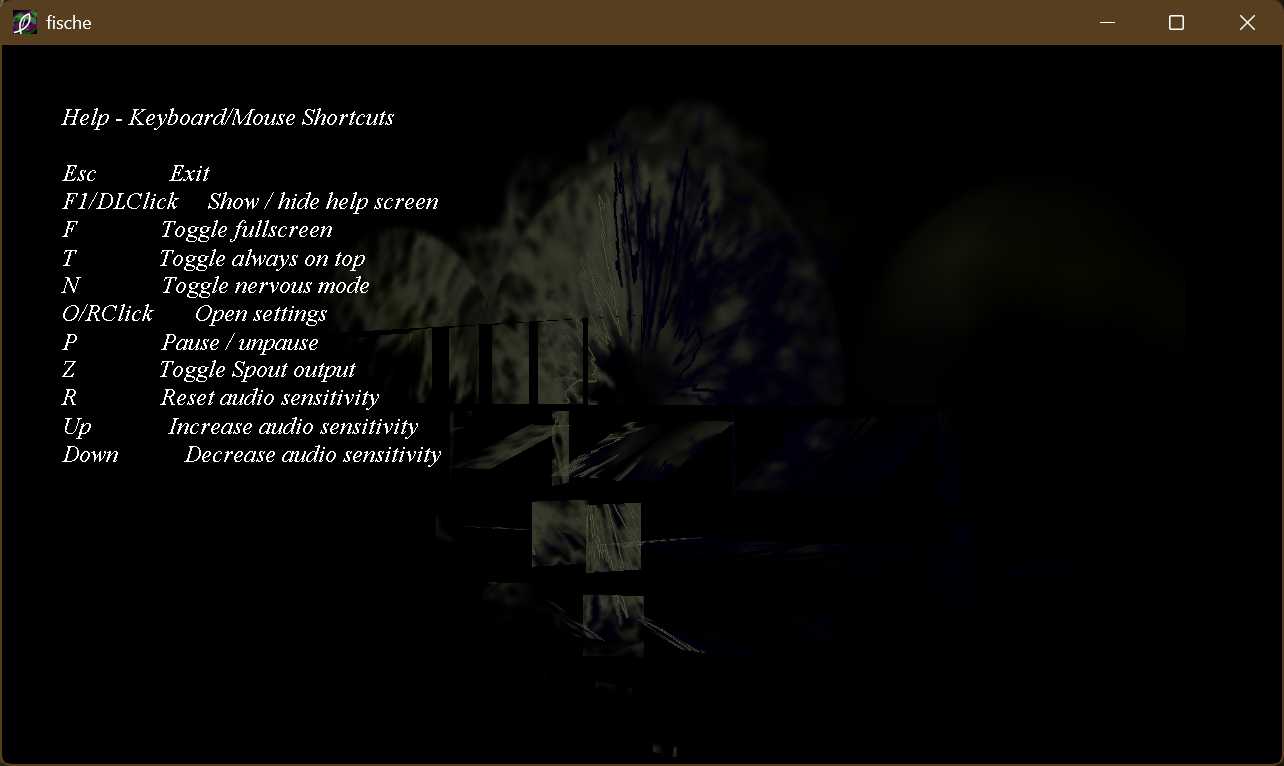
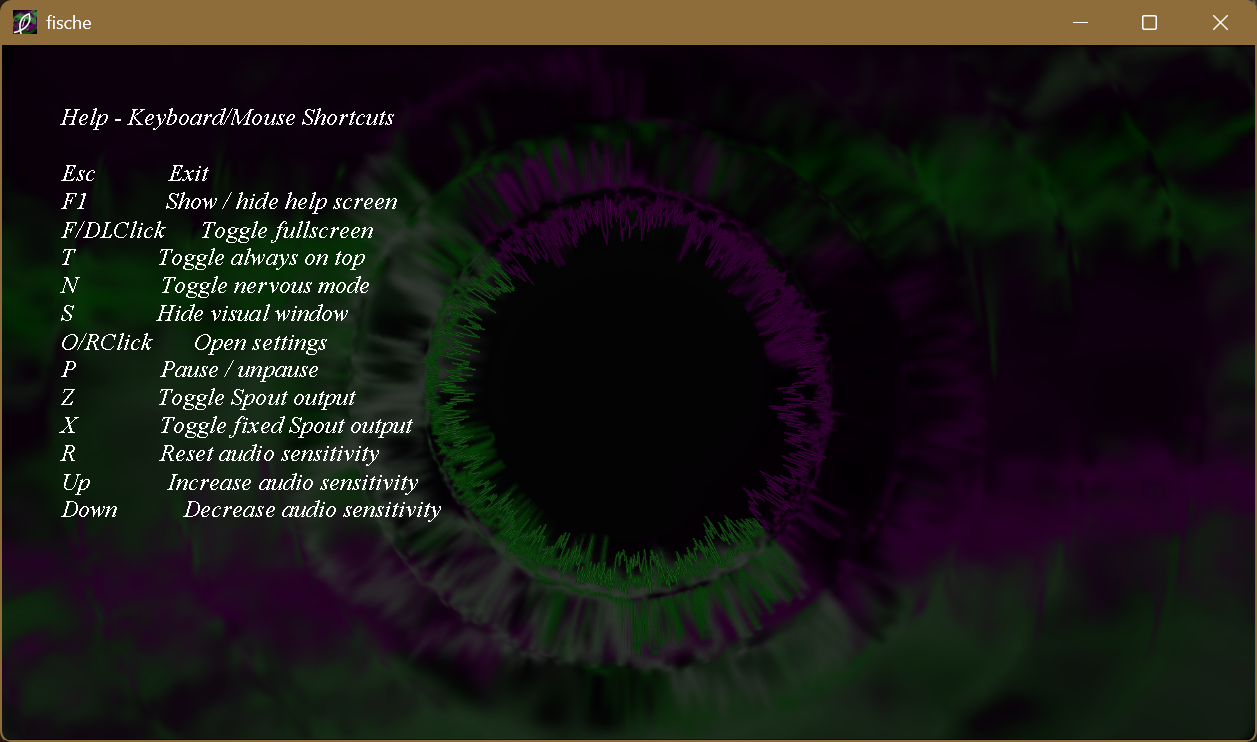
Implemented Window-independent Spout output

diff --git a/src/settings_dialog.cpp b/src/settings_dialog.cpp
@@ -11,7 +11,7 @@
 namespace
 {
 constexpr int kDialogWidth = 495;
-constexpr int kDialogHeight = 473;
+constexpr int kDialogHeight = 501;
 constexpr int kMargin = 10;
 constexpr int kLabelWidth = 130;
 constexpr int kControlLeft = 155;
@@ -35,6 +35,9 @@ constexpr int kWidthEdit  = 1014;
 constexpr int kHeightEdit = 1015;
 constexpr int kFpsReset = 1016;
 constexpr int kHideWindowCheck = 1017;
+constexpr int kFixedSpoutCheck   = 1018;
+constexpr int kFixedSpoutWidthEdit  = 1019;
+constexpr int kFixedSpoutHeightEdit = 1020;
 
 struct DialogState
 {
@@ -153,12 +156,17 @@ void apply_settings_from_controls(HWND hwnd, DialogState* state)
   state->working.windowWidth = std::clamp(_wtoi(buf), 320, 7680);
   GetWindowTextW(GetDlgItem(hwnd, kHeightEdit), buf, 32);
   state->working.windowHeight = std::clamp(_wtoi(buf), 240, 4320);
+  GetWindowTextW(GetDlgItem(hwnd, kFixedSpoutWidthEdit),  buf, 32);
+  state->working.fixedSpoutWidth  = std::clamp(_wtoi(buf), 320, 7680);
+  GetWindowTextW(GetDlgItem(hwnd, kFixedSpoutHeightEdit), buf, 32);
+  state->working.fixedSpoutHeight = std::clamp(_wtoi(buf), 240, 4320);
 
   HWND fps = GetDlgItem(hwnd, kFpsSlider);
   state->working.fpsLimit = std::clamp(static_cast<int>(SendMessageW(fps, TBM_GETPOS, 0, 0)), 0, 240);
   state->working.nervousMode = SendMessageW(GetDlgItem(hwnd, kNervousCheck), BM_GETCHECK, 0, 0) == BST_CHECKED;
   state->working.useFilePersistence = SendMessageW(GetDlgItem(hwnd, kPersistenceCheck), BM_GETCHECK, 0, 0) == BST_CHECKED;
   state->working.spoutEnabled = SendMessageW(GetDlgItem(hwnd, kSpoutCheck), BM_GETCHECK, 0, 0) == BST_CHECKED;
+  state->working.fixedSpoutEnabled = SendMessageW(GetDlgItem(hwnd, kFixedSpoutCheck), BM_GETCHECK, 0, 0) == BST_CHECKED;
   state->working.vsyncMode = std::clamp(static_cast<int>(SendMessageW(GetDlgItem(hwnd, kVSyncCombo), CB_GETCURSEL, 0, 0)), 0, 2);
   state->working.alwaysOnTop = SendMessageW(GetDlgItem(hwnd, kAlwaysOnTopCheck), BM_GETCHECK, 0, 0) == BST_CHECKED;
   state->working.hideWindow  = SendMessageW(GetDlgItem(hwnd, kHideWindowCheck),  BM_GETCHECK, 0, 0) == BST_CHECKED;
@@ -232,6 +240,26 @@ LRESULT CALLBACK dialog_proc(HWND hwnd, UINT message, WPARAM wParam, LPARAM lPar
 
       SetWindowTextW(widthEdit,  std::to_wstring(state->working.windowWidth).c_str());
       SetWindowTextW(heightEdit, std::to_wstring(state->working.windowHeight).c_str());
+      y += kRowHeight + 4;
+
+      create_control(hwnd, L"STATIC", L"Spout resol.", 0, kMargin, y + 4, kLabelWidth, 22, 0);
+      HWND fixedW = create_control(hwnd, L"EDIT", L"", ES_NUMBER | WS_BORDER,
+                                    kControlLeft, y, 70, 22, kFixedSpoutWidthEdit);
+      create_control(hwnd, L"STATIC", L"\u00D7", 0, kControlLeft + 76, y + 4, 12, 22, 0);
+      HWND fixedH = create_control(hwnd, L"EDIT", L"", ES_NUMBER | WS_BORDER,
+                                    kControlLeft + 94, y, 70, 22, kFixedSpoutHeightEdit);
+      HWND fixedBtn = create_control(hwnd, L"BUTTON", L"Fixed", BS_AUTOCHECKBOX,
+                                      kControlLeft + 175, y + 2, 70, 20, kFixedSpoutCheck);
+
+      SetWindowTextW(fixedW, std::to_wstring(state->working.fixedSpoutWidth).c_str());
+      SetWindowTextW(fixedH, std::to_wstring(state->working.fixedSpoutHeight).c_str());
+      SendMessageW(fixedBtn, BM_SETCHECK, state->working.fixedSpoutEnabled ? BST_CHECKED : BST_UNCHECKED, 0);
+
+      // Enable/disable edit boxes based on current state
+      bool fixedOn = state->working.fixedSpoutEnabled;
+      EnableWindow(fixedW, fixedOn);
+      EnableWindow(fixedH, fixedOn);
+
       y += kRowHeight + 4;
 
       create_control(hwnd, L"STATIC", L"Speed", 0, kMargin, y + 4, kLabelWidth, 22, 0);
@@ -308,6 +336,14 @@ LRESULT CALLBACK dialog_proc(HWND hwnd, UINT message, WPARAM wParam, LPARAM lPar
           HWND slider = GetDlgItem(hwnd, kFpsSlider);
           SendMessageW(slider, TBM_SETPOS, TRUE, 60);
           update_fps_label(state, slider);
+          return 0;
+        }
+        case kFixedSpoutCheck:
+        {
+          bool checked = SendMessageW(GetDlgItem(hwnd, kFixedSpoutCheck),
+                                      BM_GETCHECK, 0, 0) == BST_CHECKED;
+          EnableWindow(GetDlgItem(hwnd, kFixedSpoutWidthEdit),  checked);
+          EnableWindow(GetDlgItem(hwnd, kFixedSpoutHeightEdit), checked);
           return 0;
         }
         case IDCANCEL:

diff --git a/src/fishe_xbmc.cpp b/src/fishe_xbmc.cpp
@@ -179,6 +179,8 @@ void CFishBMC::Stop()
   if (!m_startOK)
     return;
 
+  DestroyFixedFbo();
+
   glDeleteTextures(1, &m_texture);
 
 
@@ -297,7 +299,10 @@ void CFishBMC::Render()
   finish_render();
   // Make sure all drawing commands are complete before Spout copies the frame.
   glFinish();
-  SendFrame(Sender);
+  if (m_useFixedSpout && m_fixedFboReady)
+    SendFixedFrame(Sender);
+  else
+    SendFrame(Sender);
 
 }
 
@@ -500,6 +505,99 @@ std::filesystem::path CFishBMC::vector_cache_path() const
   return dir /
          ("fische-vectors-" + std::to_string(m_fische->width) + "x" +
           std::to_string(m_fische->height) + ".bin");
+}
+
+void CFishBMC::SendFixedFrame(SpoutSender* sender)
+{
+  if (!sender || !m_fixedFboReady || !m_startOK)
+    return;
+
+  // Save current GL state
+  GLint prevFbo = 0;
+  glGetIntegerv(GL_FRAMEBUFFER_BINDING, &prevFbo);
+  GLint prevViewport[4];
+  glGetIntegerv(GL_VIEWPORT, prevViewport);
+
+  // Render into fixed FBO
+  glBindFramebuffer(GL_FRAMEBUFFER, m_fixedFbo);
+  glViewport(0, 0, m_fixedWidth, m_fixedHeight);
+  glClearColor(0.0f, 0.0f, 0.0f, 1.0f);
+  glClear(GL_COLOR_BUFFER_BIT);
+
+  start_render();
+
+  int n_Y = 8;
+  int n_X = std::max(1, static_cast<int>(m_aspect * 8 + 0.5));
+  double quad_width  = 4.0 / n_X;
+  double quad_height = 4.0 / n_Y;
+  double tex_width   = m_texright - m_texleft;
+
+  for (double X = 0; X < n_X; X += 1)
+  {
+    for (double Y = 0; Y < n_Y; Y += 1)
+    {
+      double center_x  = -2 + (X + 0.5) * 4 / n_X;
+      double center_y  = -2 + (Y + 0.5) * 4 / n_Y;
+      double tex_left  = m_texleft + tex_width * X / n_X;
+      double tex_right = m_texleft + tex_width * (X + 1) / n_X;
+      double tex_top   = Y / n_Y;
+      double tex_bottom = (Y + 1) / n_Y;
+      double angle = (m_angle - m_lastangle) * 4 - (X + Y * n_X) / (n_X * n_Y) * 360;
+      angle = std::clamp(angle, 0.0, 360.0);
+      int quad_count = static_cast<int>(X) * n_Y + static_cast<int>(Y);
+      if (quad_count < static_cast<int>(m_axis.size()))
+        textured_quad(center_x, center_y, angle, m_axis[quad_count],
+                      quad_width, quad_height,
+                      tex_left, tex_right, tex_top, tex_bottom);
+    }
+  }
+
+  finish_render();
+  glFinish();
+
+  // Send fixed FBO to Spout
+  sender->SendFbo(m_fixedFbo, static_cast<unsigned>(m_fixedWidth),
+                              static_cast<unsigned>(m_fixedHeight), true);
+
+  // Restore previous GL state
+  glBindFramebuffer(GL_FRAMEBUFFER, prevFbo);
+  glViewport(prevViewport[0], prevViewport[1], prevViewport[2], prevViewport[3]);
+}
+
+void CFishBMC::SetupFixedFbo(int w, int h)
+{
+  DestroyFixedFbo();
+
+  m_fixedWidth  = w;
+  m_fixedHeight = h;
+
+  glGenFramebuffers(1, &m_fixedFbo);
+  glBindFramebuffer(GL_FRAMEBUFFER, m_fixedFbo);
+
+  glGenTextures(1, &m_fixedTexture);
+  glBindTexture(GL_TEXTURE_2D, m_fixedTexture);
+  glTexImage2D(GL_TEXTURE_2D, 0, GL_RGBA, w, h, 0, GL_RGBA, GL_UNSIGNED_BYTE, nullptr);
+  glTexParameteri(GL_TEXTURE_2D, GL_TEXTURE_MIN_FILTER, GL_LINEAR);
+  glTexParameteri(GL_TEXTURE_2D, GL_TEXTURE_MAG_FILTER, GL_LINEAR);
+  glFramebufferTexture2D(GL_FRAMEBUFFER, GL_COLOR_ATTACHMENT0, GL_TEXTURE_2D, m_fixedTexture, 0);
+
+  glGenRenderbuffers(1, &m_fixedRbo);
+  glBindRenderbuffer(GL_RENDERBUFFER, m_fixedRbo);
+  glRenderbufferStorage(GL_RENDERBUFFER, GL_DEPTH24_STENCIL8, w, h);
+  glFramebufferRenderbuffer(GL_FRAMEBUFFER, GL_DEPTH_STENCIL_ATTACHMENT, GL_RENDERBUFFER, m_fixedRbo);
+
+  glBindFramebuffer(GL_FRAMEBUFFER, 0);
+  glBindTexture(GL_TEXTURE_2D, 0);
+
+  m_fixedFboReady = (glCheckFramebufferStatus(GL_FRAMEBUFFER) != GL_FRAMEBUFFER_INCOMPLETE_ATTACHMENT);
+}
+
+void CFishBMC::DestroyFixedFbo()
+{
+  if (m_fixedFbo)     { glDeleteFramebuffers(1,  &m_fixedFbo);     m_fixedFbo     = 0; }
+  if (m_fixedTexture) { glDeleteTextures(1,      &m_fixedTexture); m_fixedTexture = 0; }
+  if (m_fixedRbo)     { glDeleteRenderbuffers(1, &m_fixedRbo);     m_fixedRbo     = 0; }
+  m_fixedFboReady = false;
 }
 
 void CFishBMC::write_vectors(void* handler, const void* data, size_t bytes)

diff --git a/src/main.cpp b/src/main.cpp
@@ -38,6 +38,7 @@ std::chrono::steady_clock::time_point g_osdUntil;
 std::chrono::steady_clock::time_point g_cursorUntil;
 bool g_cursorVisible = true;
 bool g_spoutReady = false;
+bool g_fixedSpoutEnabled = false;
 bool g_paused = false;
 bool g_openSettings = false;
 bool g_windowHidden = false;
@@ -144,6 +145,17 @@ void show_osd(const std::string& message, int milliseconds = 3000)
   g_osdTextH = sz.cy;
 }
 
+void apply_fixed_spout()
+{
+  if (!g_visualizer) return;
+  if (g_settings.fixedSpoutEnabled && g_settings.spoutEnabled)
+    g_visualizer->SetupFixedFbo(g_settings.fixedSpoutWidth, g_settings.fixedSpoutHeight);
+  else
+    g_visualizer->DestroyFixedFbo();
+
+    g_visualizer->m_useFixedSpout = g_settings.fixedSpoutEnabled && g_settings.spoutEnabled;
+}
+
 void update_spout_state()
 {
   if (g_settings.spoutEnabled)
@@ -166,6 +178,8 @@ void update_spout_state()
       g_spoutReady = false;
     }
   }
+
+  apply_fixed_spout();
 }
 
 void recreate_visualizer()
@@ -216,6 +230,7 @@ void recreate_visualizer()
     g_audioCapture.SetSensitivity(g_settings.audioSensitivity);
   }
   update_spout_state();
+  apply_fixed_spout();
   g_lastFramebufferWidth = framebufferWidth;
   g_lastFramebufferHeight = framebufferHeight;
 }
@@ -258,6 +273,7 @@ void apply_settings(const AppSettings& settings)
     hide_to_tray();
   else if (!g_settings.hideWindow && g_windowHidden)
     show_from_tray();
+  apply_fixed_spout();
   recreate_visualizer();
 }
 
@@ -316,14 +332,15 @@ void draw_help_screen(int fw, int fh)
     "Help - Keyboard/Mouse Shortcuts",
     "",
     "Esc            Exit",
-    "F1     Show / hide help screen",
-    "F/DLClick              Toggle fullscreen",
+    "F1             Show / hide help screen",
+    "F/DLClick      Toggle fullscreen",
     "T              Toggle always on top",
     "N              Toggle nervous mode",
     "S              Hide visual window",
     "O/RClick       Open settings",
     "P              Pause / unpause",
     "Z              Toggle Spout output",
+    "X              Toggle fixed Spout output",
     "R              Reset audio sensitivity",
     "Up             Increase audio sensitivity",
     "Down           Decrease audio sensitivity",
@@ -632,6 +649,14 @@ void key_callback(GLFWwindow* window, int key, int, int action, int)
       update_spout_state();
       SaveSettings(g_settings);
       show_osd(g_settings.spoutEnabled ? "Spout output enabled" : "Spout output disabled");
+      break;
+    case GLFW_KEY_X:
+      g_settings.fixedSpoutEnabled = !g_settings.fixedSpoutEnabled;
+      apply_fixed_spout();
+      if (g_visualizer)
+        g_visualizer->m_useFixedSpout = g_settings.fixedSpoutEnabled && g_settings.spoutEnabled;
+      SaveSettings(g_settings);
+      show_osd(g_settings.fixedSpoutEnabled ? "Fixed Spout output on" : "Fixed Spout output off");
       break;
     case GLFW_KEY_R:
       g_settings.audioSensitivity = 1.0f;

diff --git a/src/app_settings.cpp b/src/app_settings.cpp
@@ -143,6 +143,12 @@ AppSettings LoadSettings()
     settings.useFilePersistence = parse_bool(it->second, settings.useFilePersistence);
   if (auto it = values.find("spoutsenderenabled"); it != values.end())
     settings.spoutEnabled = parse_bool(it->second, settings.spoutEnabled);
+  if (auto it = values.find("fixedspoutenabled"); it != values.end())
+    settings.fixedSpoutEnabled = parse_bool(it->second, settings.fixedSpoutEnabled);
+  if (auto it = values.find("fixedspoutwidth"); it != values.end())
+    settings.fixedSpoutWidth = parse_int(it->second, settings.fixedSpoutWidth, 320, 7680);
+  if (auto it = values.find("fixedspoutheight"); it != values.end())
+    settings.fixedSpoutHeight = parse_int(it->second, settings.fixedSpoutHeight, 240, 4320);
   if (auto it = values.find("vsync"); it != values.end())
   {
     const std::string& v = lower(trim(it->second));
@@ -179,6 +185,9 @@ void SaveSettings(const AppSettings& settings)
   file << "NervousMode=" << (settings.nervousMode ? "true" : "false") << "\n";
   file << "UseFilePersistence=" << (settings.useFilePersistence ? "true" : "false") << "\n";
   file << "SpoutSenderEnabled=" << (settings.spoutEnabled ? "true" : "false") << "\n";
+  file << "FixedSpoutEnabled=" << (settings.fixedSpoutEnabled ? "true" : "false") << "\n";
+  file << "FixedSpoutWidth="   << settings.fixedSpoutWidth  << "\n";
+  file << "FixedSpoutHeight="  << settings.fixedSpoutHeight << "\n";
   file << "VSync=" << vsyncStr[std::clamp(settings.vsyncMode, 0, 2)] << "\n";
   file << "AlwaysOnTop=" << (settings.alwaysOnTop ? "true" : "false") << "\n";
   file << "WindowWidth=" << std::max(settings.windowWidth, 320) << "\n";

diff --git a/src/fishe_xbmc.h b/src/fishe_xbmc.h
@@ -49,8 +49,12 @@ public:
   void SetNervousMode(bool enabled);
   void OnCompiledAndLinked();
   void SendFrame(SpoutSender* sender);
+  void SendFixedFrame(SpoutSender* sender);
+  void SetupFixedFbo(int w, int h);
+  void DestroyFixedFbo();
 
   SpoutSender *Sender;
+  bool m_useFixedSpout = false;
 
   GLFWwindow *window;
   GLuint m_texture = 0;
@@ -96,6 +100,9 @@ private:
   GLuint m_vertexVBO[2] = {0};
   GLuint m_indexVBO = 0;
 
+  GLuint m_fixedFbo = 0;
+  GLuint m_fixedTexture = 0;
+  GLuint m_fixedRbo = 0;
 
   FISCHE* m_fische = nullptr;
   float m_aspect;
@@ -109,6 +116,9 @@ private:
   float m_texleft;
   bool m_filemode;
   int m_size;
+  int m_fixedWidth       = 0;
+  int m_fixedHeight      = 0;
+  bool m_fixedFboReady   = false;
   std::vector<uint8_t> m_axis;
 
 

diff --git a/src/app_settings.h b/src/app_settings.h
@@ -13,10 +13,13 @@ struct AppSettings
   bool nervousMode = false;
   bool useFilePersistence = false;
   bool spoutEnabled = false;
+  bool fixedSpoutEnabled = false;
   int vsyncMode = 0; // 0 = Off, 1 = On, 2 = Adaptive
   float audioSensitivity = 1.0f;
   int windowWidth = 1280;
   int windowHeight = 720;
+  int fixedSpoutWidth = 1920;
+  int fixedSpoutHeight = 1080;
 };
 
 std::filesystem::path GetExecutableDirectory();

diff --git a/README.md b/README.md
@@ -107,6 +107,7 @@ On the first run, `settings.ini` is created next to the executable with default 
 | `O` (or `Right Click`) | Open settings dialog |
 | `P` | Pause / unpause |
 | `Z` | Toggle Spout output |
+| `X` | Toggle fixed Spout resolution |
 | `R` | Reset audio sensitivity |
 | `Up` | Increase audio sensitivity |
 | `Down` | Decrease audio sensitivity |
@@ -127,6 +128,9 @@ FPSLimit=60
 NervousMode=false
 UseFilePersistence=false
 SpoutSenderEnabled=false
+FixedSpoutEnabled=false
+FixedSpoutWidth=1080
+FixedSpoutHeight=1920
 VSync=Off
 AlwaysOnTop=false
 WindowWidth=1280
@@ -143,6 +147,8 @@ HideWindow=false
 | `NervousMode` | true / false | Rapid animation mode |
 | `UseFilePersistence` | true / false | Cache vector fields to `vectors/` folder |
 | `SpoutSenderEnabled` | true / false | Enable Spout texture sharing |
+| `FixedSpoutEnabled` | true / false | Render and send Spout output at a fixed resolution independent of the window size |
+| `FixedSpoutWidth` / `FixedSpoutHeight` | integer | Fixed Spout output resolution; only used when `FixedSpoutEnabled` is true |
 | `VSync` | Off / On / Adaptive | VSync mode; Adaptive mode uses `glfwSwapInterval(-1)`, which reduces tearing without hard locking the frame rate |
 | `AlwaysOnTop` | true / false | Keep the visual window above all other windows |
 | `WindowWidth` / `WindowHeight` | integer | Last window size; restored on next launch |

diff --git a/TODO.md b/TODO.md
@@ -5,7 +5,7 @@
 
 # For version 2.3:
 - [x] Implement show/hide window/render feature
-- [ ] Window-independent (fixed) Spout output; with fixed button toggle. If it's enabled, it also enables the typing box for fixed Spout output resolution, else it makes untypable if you disabled fixed Spout output. (+ `F` hotkey)
+- [x] Window-independent (fixed) Spout output; with fixed button toggle. If it's enabled, it also enables the typing box for fixed Spout output resolution, else it makes untypable if you disabled fixed Spout output. (+ `F` hotkey)
 
 # Uncategorized/Optional:
 - [ ] Update to GLFW 3.5 (if available)
